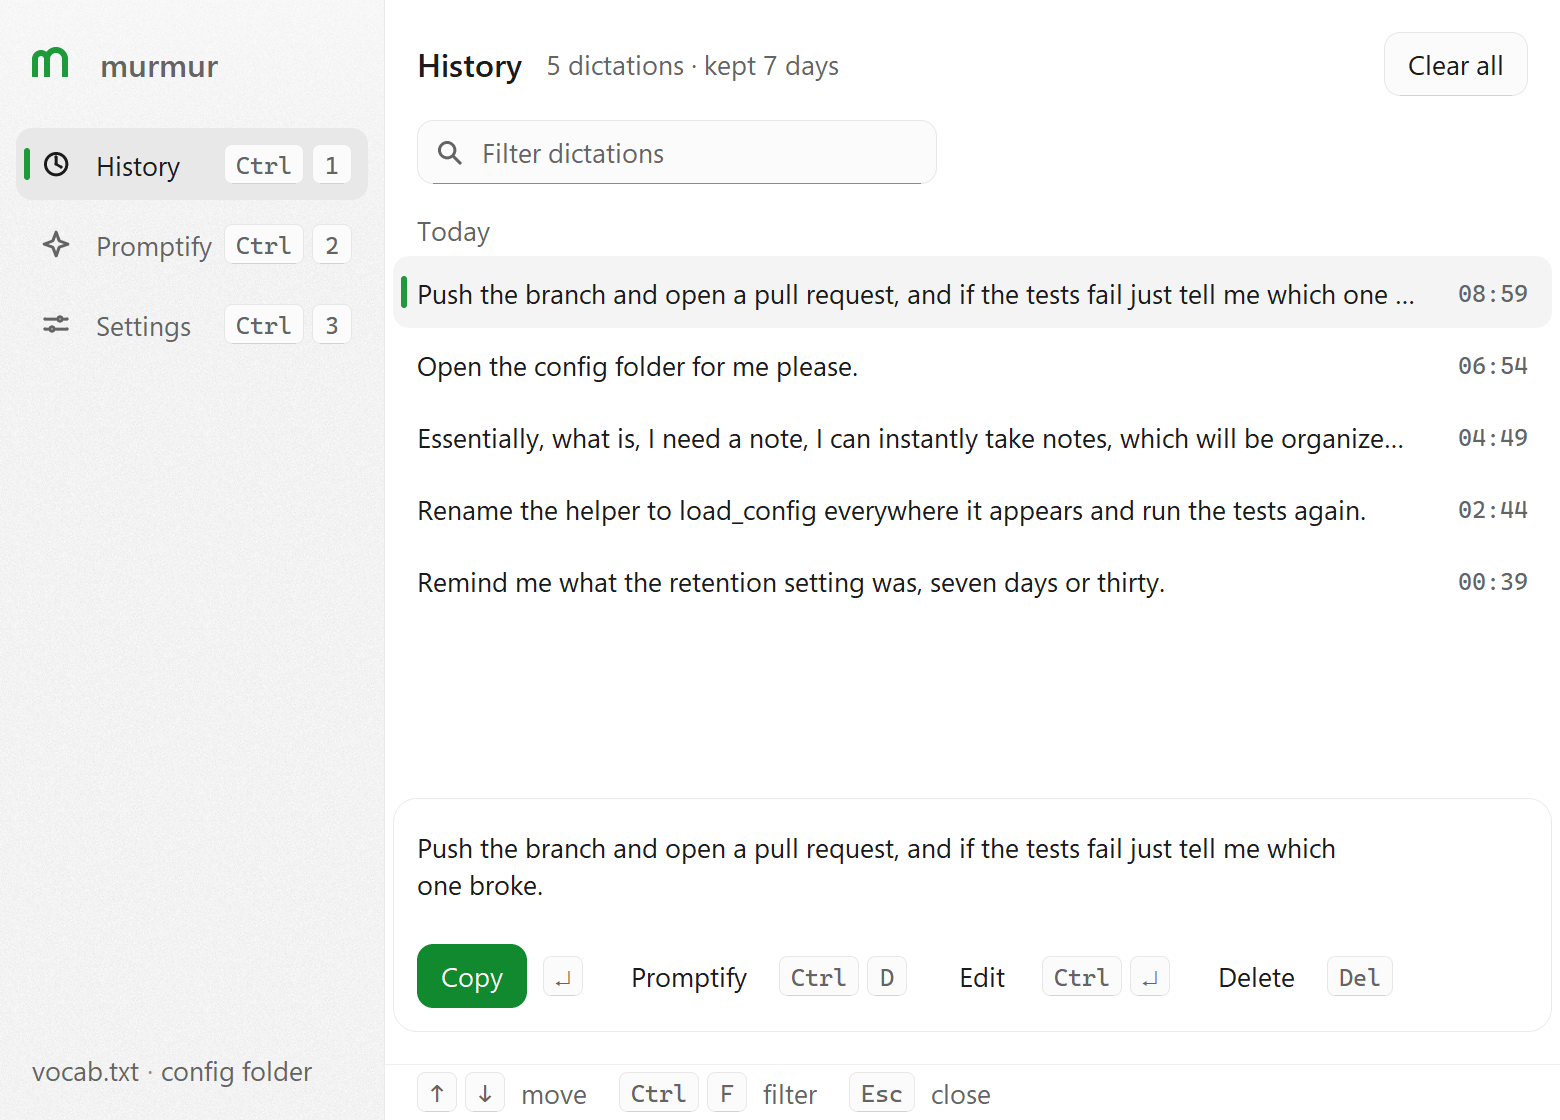
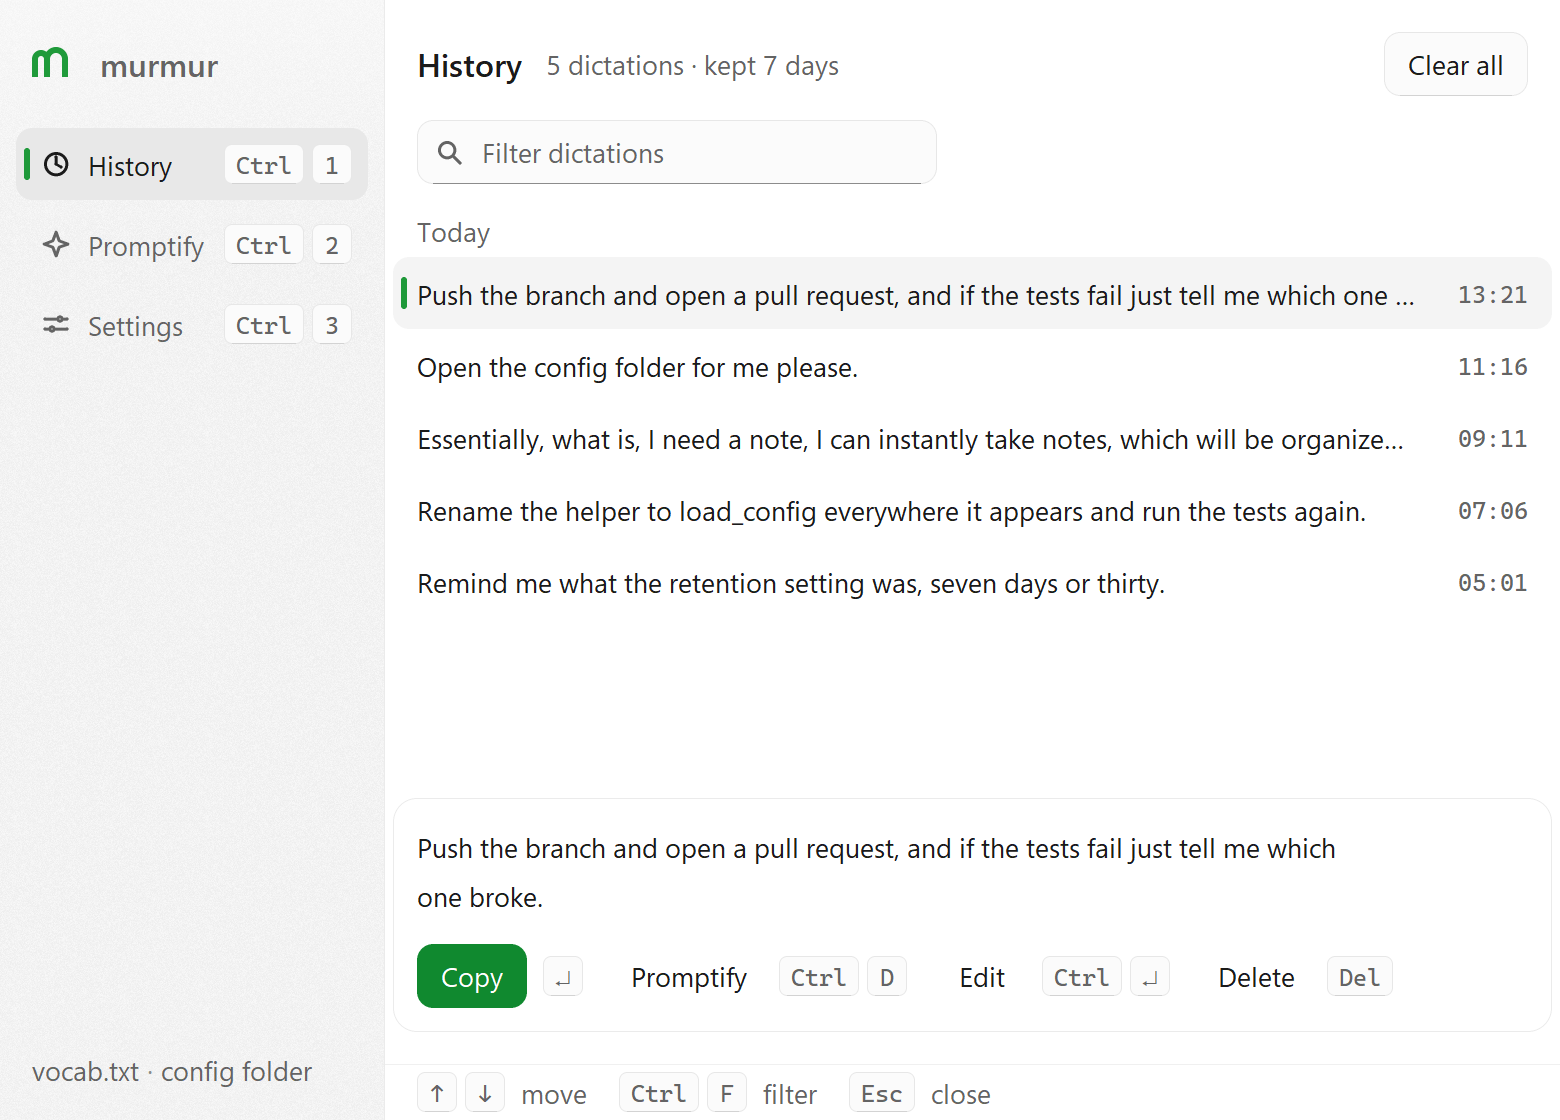
NOTES: the ultracode pass completed - stages 4-7, the review round and the verify; README screenshots regenerated after the review fixes
Claude-Session: https://claude.ai/code/session_01EhJy6J64smwzXCeLuE5MXe

diff --git a/NOTES.md b/NOTES.md
@@ -239,38 +239,24 @@ Decisions
   indicator bar, footer hint strips, Ctrl+, Ctrl+W Ctrl+F Esc bindings, reduced-motion detection,
   3 RowList day groups + right-aligned mono time column + draft mark, the filter field, action-row
   caps, button hover blend - and a pre-existing bug: show_sel ran before the list had a size so
-  every fresh list opened scrolled. Stages 4-7 (Promptify header segment with icons, Settings
-  icons/60 px rows/raised trigger cap, motion, reconciliation) and the screenshot-review round did
-  NOT run: the session hit its usage limit twice; the workflow resumes from its journal (run
-  wf_20bd8301-0aa). Suites green at each landed stage; switch times unchanged within 2 ms.
-- UI3 review fixes (2026-09-09), from three independent screenshot reviews of the 64-shot set at
-  200 % (600 / 780 / 1000 wide, light and dark). Musts, all at 600 wide: `_Row` stacks its control
-  under the text when the label has no room beside it ("olou" / "Rec" / "double- anc" were the
-  colour and trigger rows' labels clipped to fragments); the transcript Text gets `spacing2` (Tk
-  requests `height` lines at linespace + spacing1 + spacing3 but lays a wrapped paragraph at
-  linespace + spacing2, so a 6-line card held 7.8 and cut the last mid-glyph, and the thumb showed
-  with nothing hidden); the action row wraps to two lines of two at >= 480 tall instead of hiding
-  every cap (600 x 400 keeps the bare row); Cancel drops under the "Drafting with" line; the
-  "Drafted by" line gives its prefix up before the wall time; the nav label moves to 36 (the 200 %
-  render of "Promptify" measures 58, not 56, and left 6 before the chord); a selection that grows
-  the card is re-shown from the list's own <Configure> (an idle job asked too early - the cascade
-  Text -> card -> grid -> list spans several idle passes); Ctrl+↵ from the History list opens the
-  edit (it was bound on the Text alone); the Promptify footer's ↵ reads "copy prompt" on a drafted
-  row (what Return does there) and Ctrl C "copy dictation". Shoulds taken: the Assumed bar is a
-  canvas with left-aligned text (the one centred text in the app); a scroll-only rule under the
-  History filter and the Dictations head; the engine rows stack the action under the status at
-  600; the header ends at the body's cap in a wide pane (the primary and the Assumed bar share
-  one right edge at 1000); the grain clamped to base +- 5 so M6 holds by construction (a gaussian
-  at sigma 3 left 9 % past it; the spec's ceiling says never raise sigma - reviewer 2's "raise it
-  to read as texture at 100 %" is the owner's call, not taken); the harness shoots with motion
-  off (one grab caught the bar mid-slide) and adds error / edit / flash / empty / hover shots.
-  Not taken: the first-word ellipsis for the engine name at 600 in the draft state (the room
-  beside Copy prompt is ~40 px, where "Claude …" does not fit either and an empty name button
-  reads as a missing label; "Clau…" stays); the combobox popdown and title-bar shots (the
-  popdown is its own toplevel and the harness grabs the client area by HWND). Residual: at 780
-  the list's fold lands inside the next day header's 24 px row, which shows as a blank band under
-  the last visible row - the header's own top air, not a defect of the rule. Switch A/B against
-  HEAD, interleaved min-of-21 at 200 %: 45.7 / 31.2 / 76.9 ms vs 48.3 / 32.5 / 81.2 - not slower.
+  every fresh list opened scrolled. Stages 4-7 followed once the session limit reset: 4 Promptify
+  (segment cells as Canvases with the >_ Code / globe Web icons, field underline, chips with icons,
+  header chevron + ellipsize, the drafting skeleton), 5 Settings + the sheet (62 px rows, the raised
+  trigger keycap, outlined-off toggle, inner-dot slider, the engines sheet restyled), 6 motion and
+  states (hover/press blends, the nav bar slide after the switch, toggle frames, the drafting track,
+  reduced-motion detection - all after() ids in self.jobs), 7 reconciliation (the spec walked line
+  by line, vulture clean, ./test.sh green). Then three independent screenshot reviews of a 64-shot
+  set (600/780/1000 x light/dark): 38 findings, 21 musts collapsing to eight distinct issues - all
+  at 600 wide or in keyboard wiring - fixed in d342c9e (see the review-fixes entry above), recheck
+  found nothing open. Adversarial verify: all seven suites green; every drawn keycap traced to a
+  bind(); focus-visible proven by generated clicks (no ring) vs Tab (ring); Edit / Assume / Split /
+  Appearance / Engines all covered by named asserts. Timing, min-of-N on a CPU busier than on
+  09-07: this tree 45 / 32 / 78 ms (Promptify / History / Settings) against the pre-UI3 commit run
+  side by side the same hour at 44 / 26 / 88 - parity on Promptify, faster on Settings, History
+  +6 ms of Tk paint for its day headers, time column and marks (all in update(), <1 ms of Python).
+  The refuter called that a fail against the 40/30/80 budgets set from the 09-07 numbers, which the
+  control shows were the machine's, not the code's; accepted as parity. dist with the new UI:
+  172.4 MB. Not pushed.
 - 1.0.0, "can't find murmur in the Windows search bar" + the model cap (2026-09-01). Search:
   Windows finds apps through Start Menu shortcuts, and the mirror installs since 08-31 (robocopy
   /MIR of dist into %LOCALAPPDATA%\Programs\murmur, because Inno Setup vanished) never made
